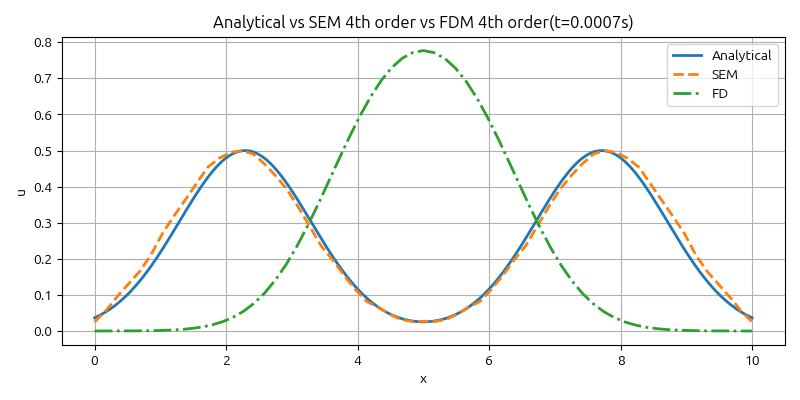
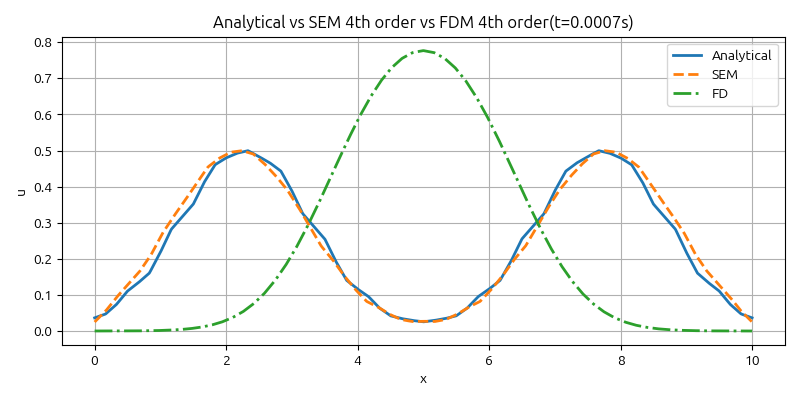
eigen to cholesky fixed

diff --git a/simulation/solvers.py b/simulation/solvers.py
@@ -36,7 +36,7 @@ from scipy.integrate import solve_ivp
 from qiskit_aer import AerSimulator
 
 # Own modules
-from utility.transform import HamiltonianBuilderSEM
+from utility.transformMain import HamiltonianBuilderSEM
 from utility.processing import MediumProcessor, StateProcessor
 from utility.backends import CloudBackend, LocalBackend
 from utility.circuits import CircuitGen1DA
@@ -230,8 +230,8 @@ class Solver1DEXP(Solver1D):
         # print("kwargs[nx]:", self.kwargs['nx'] )
         self.st.set_u(self.kwargs['u'], 0)
         self.st.set_v(self.kwargs['v'], 0)
-        # self.st.forward_state(0, self.tf.t @ self.tf.sqrt_m)
-        self.st.forward_state(0, self.tf.sqrt_m)       
+        self.st.forward_state(0, self.tf.t @ self.tf.sqrt_m)
+        # self.st.forward_state(0, self.tf.sqrt_m)       
         self.logger.info('Initial state forward-transformed.')
 
     def run(self) -> Dict[str, Any]:
@@ -248,8 +248,8 @@ class Solver1DEXP(Solver1D):
             for time in self.times])
         self.logger.info('Matrix exponential solved.')
 
-        # _ = [self.st.inverse_state(i, self.tf.inv_sqrt_m @ self.tf.inv_t)
-        _ = [self.st.inverse_state(i, self.tf.inv_sqrt_m)
+        _ = [self.st.inverse_state(i, self.tf.inv_sqrt_m @ self.tf.inv_t)
+        # _ = [self.st.inverse_state(i, self.tf.inv_sqrt_m)
          for i in range(len(self.times))]
         self.logger.info('States inverse-transformed.')
 